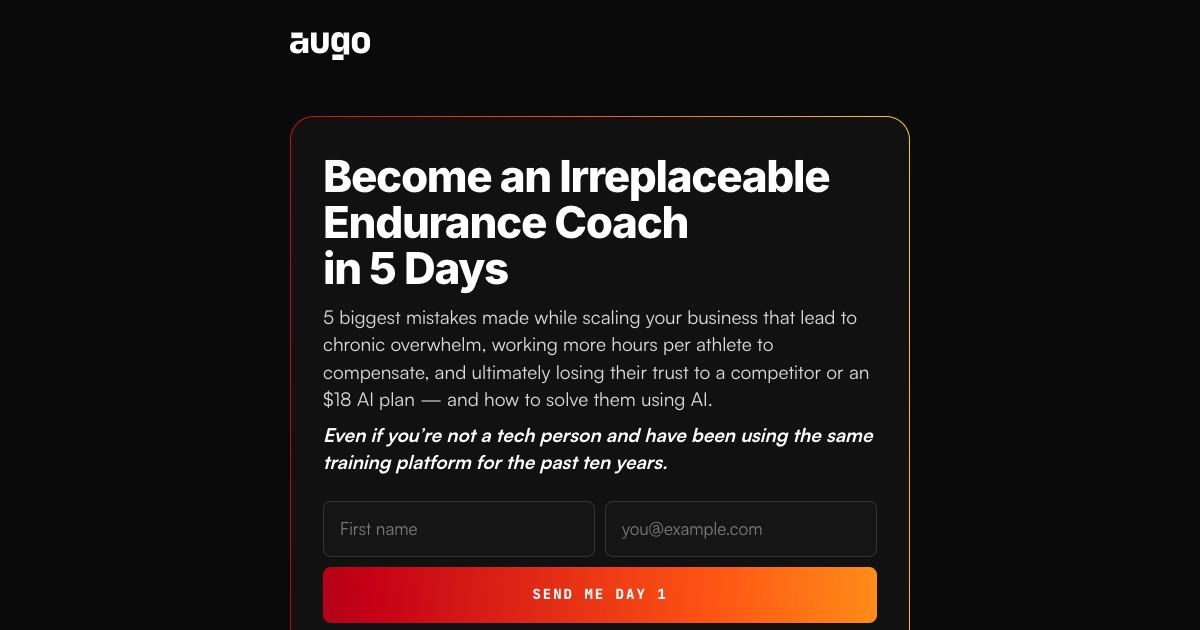
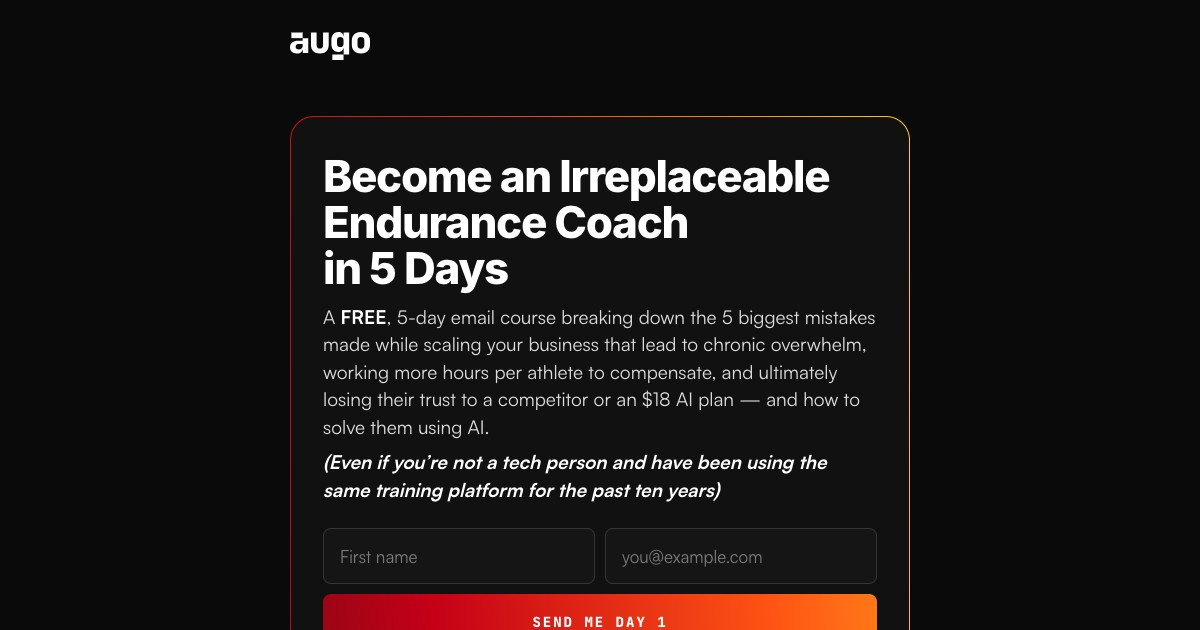
feat(course): open the hero copy with "A FREE, 5-day email course"
The subtitle now opens "A FREE, 5-day email course breaking down the 5
biggest mistakes...", with FREE in bold white, so the offer is stated
up front again. The reassurance line under it goes in parentheses,
"(Even if you're not a tech person and have been using the same training
platform for the past ten years)", matching the reference layout.

The Course schema description follows. Share card regenerated.

Changed region(s): [[0.2467, 0.4825, 0.74, 0.8444], [0.2467, 0.8746, 0.74, 1.0]]

diff --git a/src/components/coachCourse/constants.ts b/src/components/coachCourse/constants.ts
@@ -54,13 +54,18 @@ export const COPY = {
         after: 'in 5 Days',
     },
     /** Two paragraphs: the promise, then the reassurance in bold italic on
-     *  its own line. `subtitle` joins them for the Course schema. */
-    subtitleLead:
-        '5 biggest mistakes made while scaling your business that lead to chronic overwhelm, working more hours per athlete to compensate, and ultimately losing their trust to a competitor or an $18 AI plan — and how to solve them using AI.',
+     *  its own line. `subtitle` joins them for the Course schema. The promise
+     *  opens with "FREE" in bold, so it is split around that word. */
+    subtitleLead: {
+        before: 'A ',
+        strong: 'FREE',
+        after: ', 5-day email course breaking down the 5 biggest mistakes made while scaling your business that lead to chronic overwhelm, working more hours per athlete to compensate, and ultimately losing their trust to a competitor or an $18 AI plan — and how to solve them using AI.',
+    },
     subtitleAside:
-        'Even if you’re not a tech person and have been using the same training platform for the past ten years.',
+        '(Even if you’re not a tech person and have been using the same training platform for the past ten years)',
     get subtitle() {
-        return `${this.subtitleLead} ${this.subtitleAside}`
+        const lead = this.subtitleLead
+        return `${lead.before}${lead.strong}${lead.after} ${this.subtitleAside}`
     },
     get: {
         title: "What You'll Get:",

diff --git a/src/pages/CoachCourse.tsx b/src/pages/CoachCourse.tsx
@@ -79,7 +79,9 @@ export default function CoachCourse() {
                             </span>
                         </h1>
                         <p className="mt-3 font-satoshi text-[17px] sm:text-[19px] leading-[1.45] text-pretty text-white/85">
-                            {COPY.subtitleLead}
+                            {COPY.subtitleLead.before}
+                            <strong className="font-bold text-white">{COPY.subtitleLead.strong}</strong>
+                            {COPY.subtitleLead.after}
                         </p>
                         <p className="mt-2 font-satoshi text-[17px] sm:text-[19px] font-bold italic leading-[1.45] text-white">
                             {COPY.subtitleAside}
